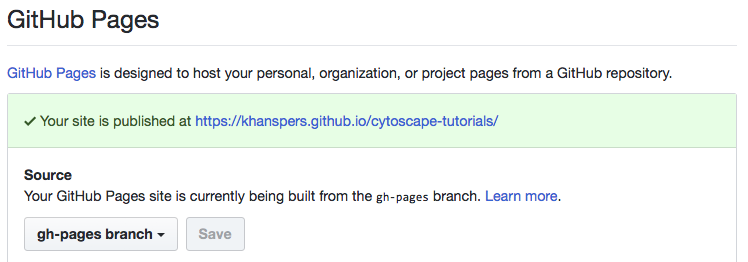
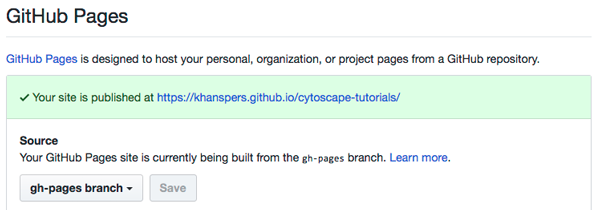
minor updates and resizing of fig

diff --git a/presentations/advanced-trainers.html b/presentations/advanced-trainers.html
@@ -111,10 +111,10 @@
                      <section id="design-module">
                 <section>
                 <h1>Designing a Module</h1>
-                <p>First, setup your own fork of the cytoscape-tutorials material and make it publishable via GitHub Pages (so we can review your code!).</p>
+                <p>Setup your own fork of the cytoscape-tutorials material and make it publishable via GitHub Pages (so we can review your code!).</p>
                 <ul>
                     <li>Fork the <a href="https://github.com/cytoscape/cytoscape-tutorials">Cytoscape Tutorials repo</a>.</li>
-                    <li>Publish your fork via GitHub Pages. GitHub settings should show a green checkmark message, if not switch the branch selection to "master" and then back to "gh-pages".</li>
+                    <li>Publish your fork via GitHub Pages. GitHub settings should show a green checkmark message, if not switch the <b>Source</b> branch to <b>master</b> and then back to <b>gh-pages</b>.</li>
                     <img src="GitHubPagesSetting.png"/>   
                     <li>Follow the link to view your GitHub Pages.</li>
                 </ul>
@@ -125,7 +125,8 @@
                  <p>Explore the structure of the repo:</p>
                             <ul>
                                 <li>Open <b>presentations/template.html</b> and review the code, in particular how modules are pulled in.</li>
-                                <li>Navigate to one of the module templates. Each module contains both index.html and module.html. The latter contains the code representing slides and content, the former is simply a wrapper to view the module on its own.</li>
+                                <li>Navigate to one of the module templates. Each module contains both <b>index.html</b> and <b>module.html</b>. The latter contains the code representing slides and content, the former is simply a wrapper to view the module on its own.</li>
+                                <li>Review any <b>module.html</b> to learn how slides are created.</li>
                             </ul>
                 </section>
                     
@@ -133,7 +134,7 @@
                 <h1>Designing a Module</h1>
                     <p>Create an outline of a new module:</p>
                     <ul>
-                    <li>Review existing modules under <b>presentations>modules</b></li>
+                    <li>Review existing modules under <b>presentations/modules</b></li>
                     <li>Review documentation for <a href="https://github.com/cytoscape/cytoscape-tutorials/blob/gh-pages/README.md#building">how to create a new module</a>.</li>
                     <li>Create a new module in your fork, consisting of just a bullet list outline for at least 5 slides, with titles only.</li>
                     
